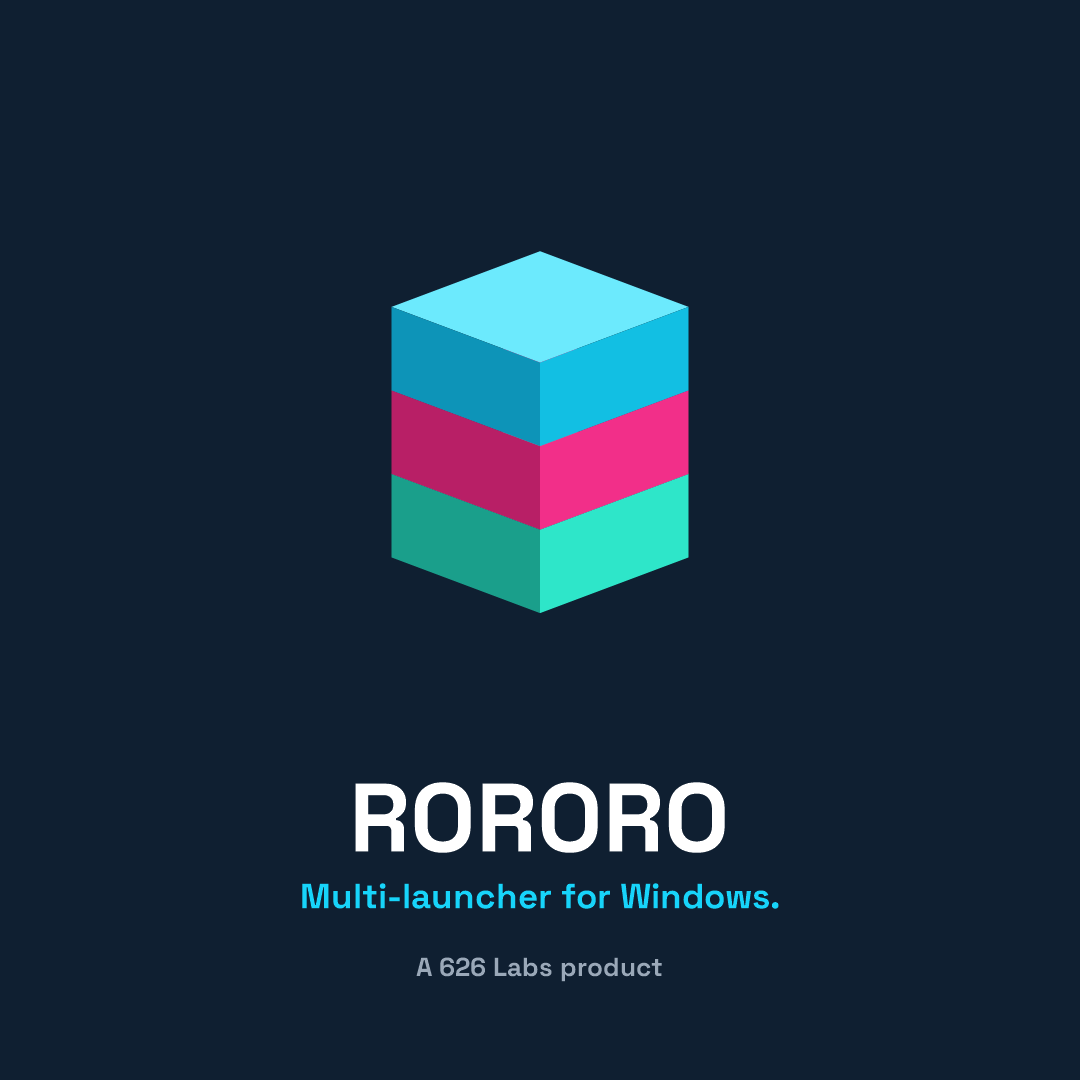
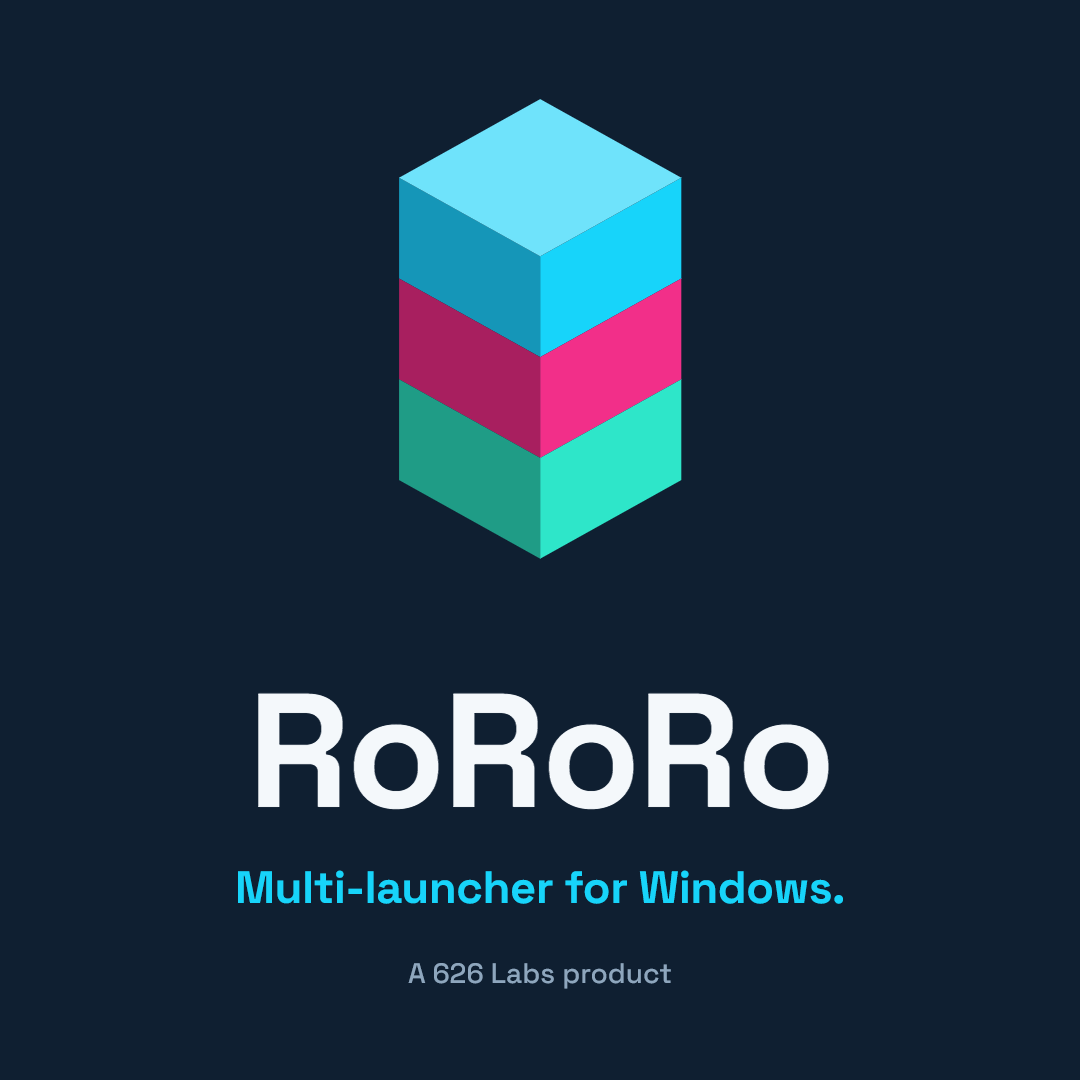
fix(store): listing artwork says RoRoRo, not RORORO
The hero, boxart, and poster graphics had the wordmark set in all caps. Store page
copy is already correct, so the artwork was the last surface still shipping the
wrong form of the product name — and it is the first thing anyone sees on the
listing.

Six graphics regenerated at their existing sizes, composition unchanged: same
isometric stacked-cube mark, same cyan/magenta/teal bands on navy, same tagline
and product line. Only the casing moves.

The three store-display tiles are the mark alone with no wordmark, so they were
left as-is rather than churned for nothing.

Adds the generator, which did not exist before — these were previously one-off
renders with no source, so "fix the casing" meant rebuilding the artwork from a
screenshot. store-mark.source.html now drives all six from one file, choosing its
layout from the viewport aspect ratio so the exports cannot drift apart, with a
README covering the render steps and the two traps found doing it: file:// is
blocked by the capture tooling, and the layout must re-evaluate on resize because
the viewport is set after load.

Changed region(s): [[0.3361, 0.0917, 0.6417, 0.5806], [0.2139, 0.6417, 0.7944, 0.8556], [0.3667, 0.8861, 0.6417, 0.9167]]

diff --git a/docs/store/graphics/store-mark.source.html b/docs/store/graphics/store-mark.source.html
@@ -1,0 +1,90 @@
+<meta charset="utf-8">
+<style>
+  @import url('https://fonts.googleapis.com/css2?family=Space+Grotesk:wght@500;700&display=swap');
+
+  :root {
+    --navy: #0f1f31;
+    --cyan: #17d4fa;
+    --magenta: #f22f89;
+    --teal: #2ee6c9;
+    --white: #f4f8fb;
+    --muted: #8ea6bd;
+  }
+
+  * { margin: 0; padding: 0; box-sizing: border-box; }
+  html, body { width: 100%; height: 100%; overflow: hidden; background: var(--navy); }
+  body { font-family: 'Space Grotesk', system-ui, sans-serif; }
+
+  .stage { width: 100%; height: 100%; display: flex; align-items: center; justify-content: center; }
+
+  /* ---- HERO: mark left, text right (16:9) ---- */
+  body.hero .stage { gap: 7vw; }
+  body.hero .cube { width: 17vw; }
+  body.hero .wordmark { font-size: 9.4vw; }
+  body.hero .tagline  { font-size: 2.6vw; margin-top: 1.6vw; }
+  body.hero .footline { font-size: 1.5vw; margin-top: 2.4vw; }
+  body.hero .copy { text-align: left; }
+
+  /* ---- BOXART: square, stacked + centred ---- */
+  body.boxart .stage { flex-direction: column; gap: 9vmin; }
+  body.boxart .cube { width: 28vmin; }
+  body.boxart .wordmark { font-size: 15vmin; }
+  body.boxart .tagline  { font-size: 4.2vmin; margin-top: 2.4vmin; }
+  body.boxart .footline { font-size: 2.6vmin; margin-top: 3.6vmin; }
+  body.boxart .copy { text-align: center; }
+
+  /* ---- POSTER: 2:3 portrait, stacked + centred ---- */
+  body.poster .stage { flex-direction: column; gap: 10vw; }
+  body.poster .cube { width: 42vw; }
+  body.poster .wordmark { font-size: 21vw; }
+  body.poster .tagline  { font-size: 5.6vw; margin-top: 3vw; }
+  body.poster .footline { font-size: 3.4vw; margin-top: 4.6vw; }
+  body.poster .copy { text-align: center; }
+
+  .wordmark {
+    font-weight: 700;
+    color: var(--white);
+    line-height: 1;
+    letter-spacing: -0.02em;
+    white-space: nowrap;
+  }
+  .tagline { font-weight: 700; color: var(--cyan); letter-spacing: -0.01em; }
+  .footline { font-weight: 500; color: var(--muted); }
+</style>
+
+<div class="stage">
+  <!-- Isometric stacked-cube mark: three slabs, cyan / magenta / teal, top-lit.
+       Same geometry as the shipped artwork — only the wordmark casing changes. -->
+  <svg class="cube" viewBox="0 0 300 480" fill="none" xmlns="http://www.w3.org/2000/svg">
+    <!-- band 0 — cyan -->
+    <path d="M10,88 L150,166 L150,266 L10,188 Z"   fill="#1596b8"/>
+    <path d="M150,166 L290,88 L290,188 L150,266 Z" fill="#17d4fa"/>
+    <!-- band 1 — magenta -->
+    <path d="M10,188 L150,266 L150,366 L10,288 Z"   fill="#a81f5f"/>
+    <path d="M150,266 L290,188 L290,288 L150,366 Z" fill="#f22f89"/>
+    <!-- band 2 — teal -->
+    <path d="M10,288 L150,366 L150,466 L10,388 Z"   fill="#1f9c86"/>
+    <path d="M150,366 L290,288 L290,388 L150,466 Z" fill="#2ee6c9"/>
+    <!-- top face, drawn last so it caps the stack -->
+    <path d="M150,10 L290,88 L150,166 L10,88 Z" fill="#6fe3fb"/>
+  </svg>
+
+  <div class="copy">
+    <div class="wordmark">RoRoRo</div>
+    <div class="tagline">Multi-launcher for Windows.</div>
+    <div class="footline">A 626 Labs product</div>
+  </div>
+</div>
+
+<script>
+  // Layout is chosen from the viewport's aspect ratio, so one file renders every size:
+  // 16:9 -> hero, 1:1 -> boxart, 2:3 -> poster. Keeps the six exports from drifting apart.
+  function apply() {
+    const r = window.innerWidth / window.innerHeight;
+    document.body.className = r > 1.4 ? 'hero' : (r > 0.85 ? 'boxart' : 'poster');
+  }
+  apply();
+  // Must re-run on resize: the capture tool sets the viewport AFTER load, so a one-shot
+  // classification would render every export in whatever shape the default window happened to be.
+  window.addEventListener('resize', apply);
+</script>

diff --git a/docs/store/graphics/README.md b/docs/store/graphics/README.md
@@ -1,0 +1,45 @@
+# Store graphics
+
+Partner Center listing artwork. Regenerated 2026-08-04 to correct the wordmark casing —
+the previous set read **RORORO**; the product is **RoRoRo**.
+
+## Regenerating
+
+`store-mark.source.html` is the single source for all six wordmark graphics. It picks its layout
+from the viewport's aspect ratio, so one file renders every size and the exports cannot drift
+apart:
+
+| Aspect | Layout | Used for |
+|---|---|---|
+| wider than 1.4 | mark left, text right | hero |
+| 0.85 – 1.4 | stacked, centred | boxart |
+| narrower than 0.85 | stacked, centred, larger mark | poster |
+
+Serve the file over HTTP (a `file://` URL is blocked by the capture tooling), then screenshot at
+each viewport. The layout re-evaluates on resize, so set the viewport **after** load:
+
+```
+python3 -m http.server 8731        # from this directory
+```
+
+| Output | Viewport |
+|---|---|
+| `store-hero-1920x1080.png` | 1920 × 1080 |
+| `store-hero-3840x2160.png` | 3840 × 2160 |
+| `store-boxart-1080x1080.png` | 1080 × 1080 |
+| `store-boxart-2160x2160.png` | 2160 × 2160 |
+| `store-poster-720x1080.png` | 720 × 1080 |
+| `store-poster-1440x2160.png` | 1440 × 2160 |
+
+Fonts load from Google Fonts, so the render needs network access. Space Grotesk 700 is the
+wordmark; a fallback substitution will change the letterforms without failing, so check one
+export by eye before shipping a set.
+
+## Not generated from this file
+
+`store-display-71x71.png`, `-150x150.png`, and `-300x300.png` are the mark alone with no
+wordmark, so the casing fix did not touch them. They are unchanged from the original set.
+
+The in-package tile logos under `src/ROROROblox.App/Package/Logos/` are also separate — those are
+the MSIX assets, and `ShowNameOnTiles` draws the manifest `DisplayName` over them as live text
+rather than baking it into the image.
